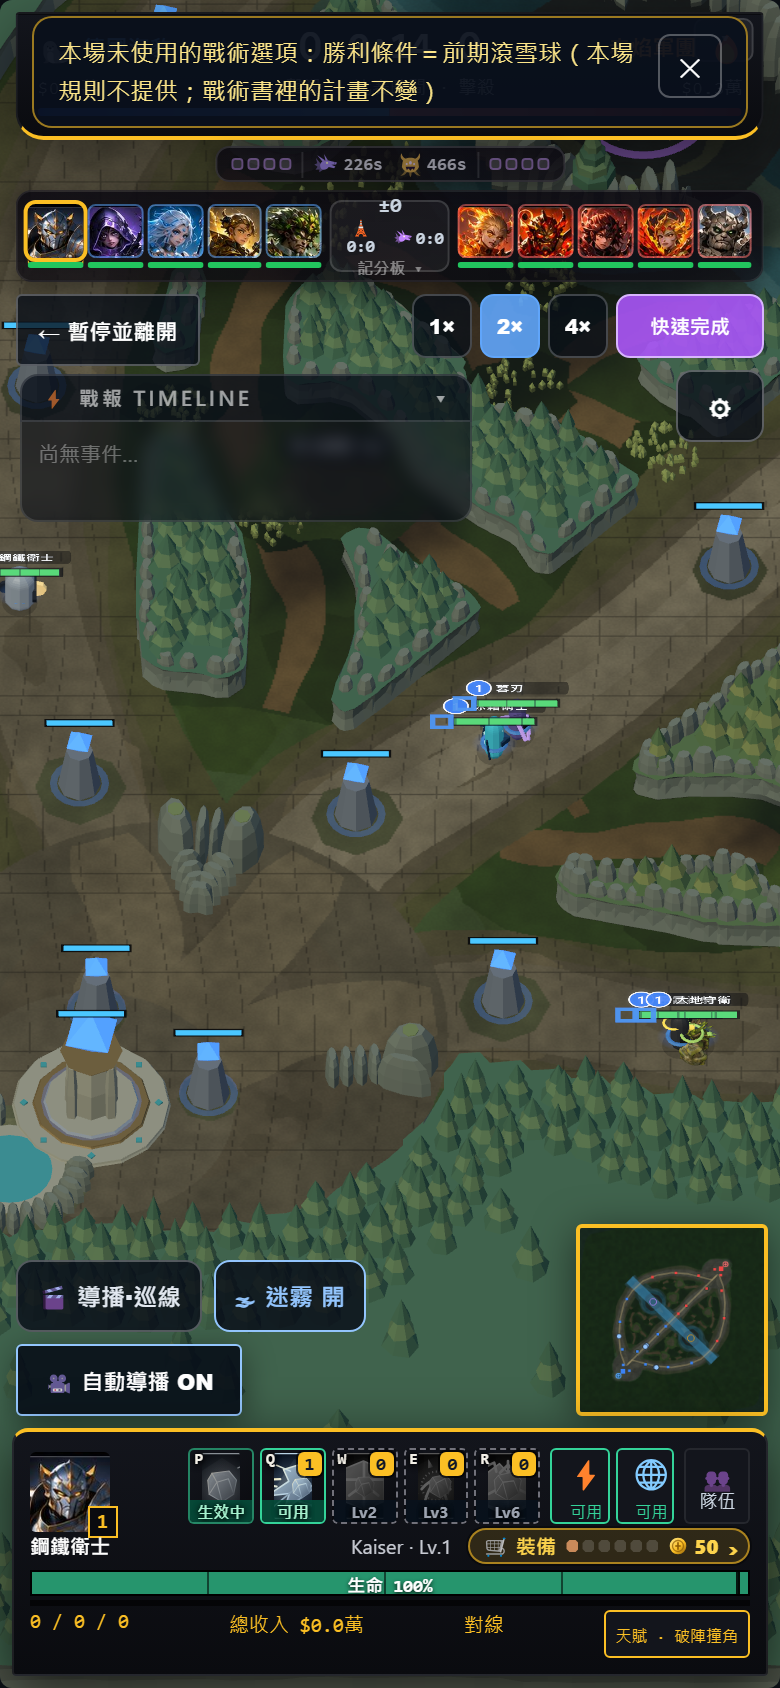
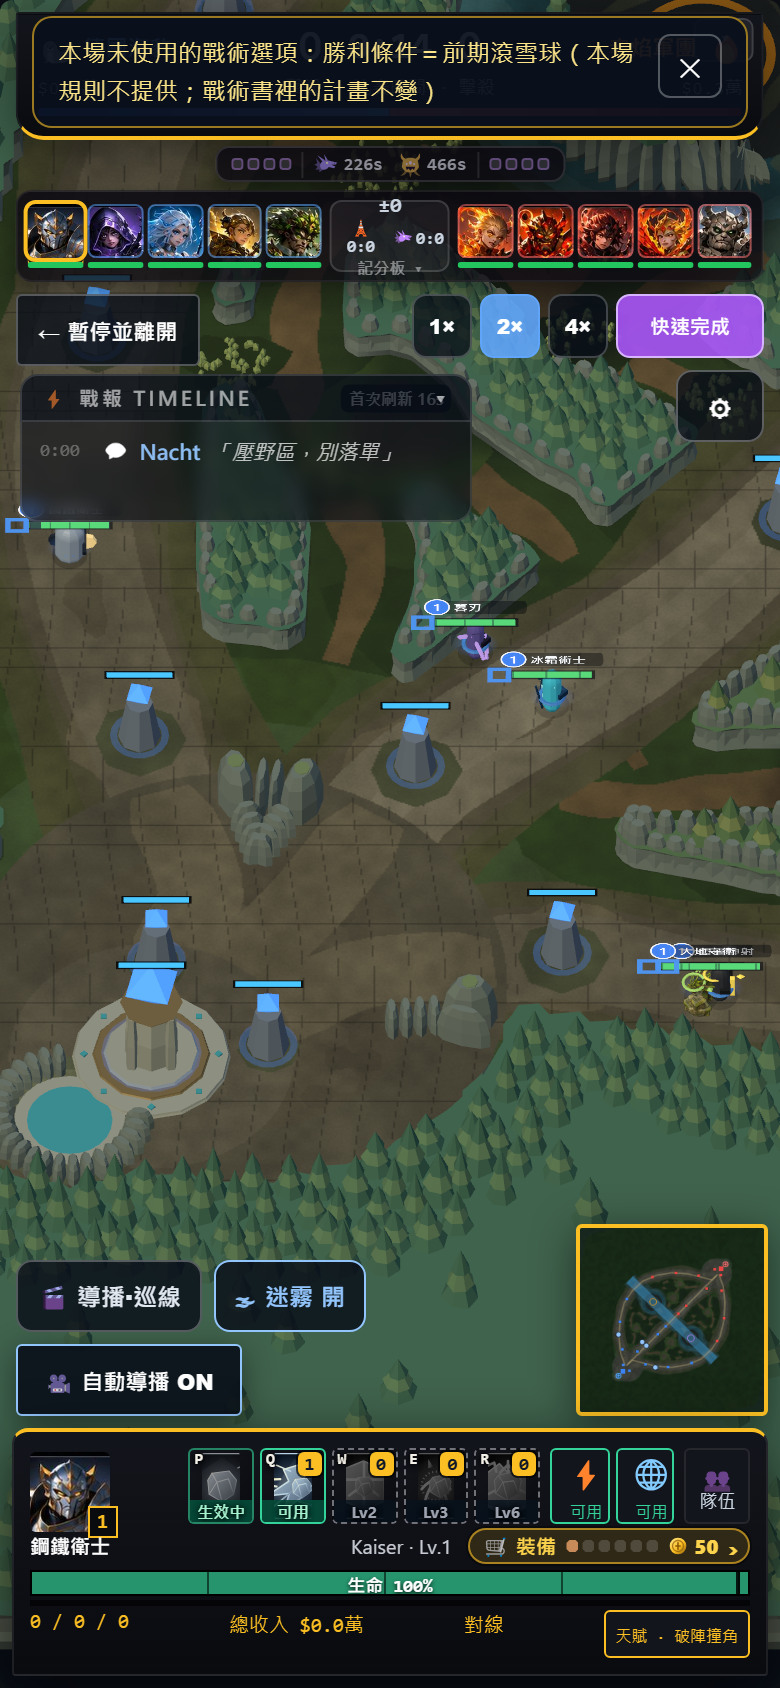
Phase 3a-B stage 1: docs and browser evidence for Owner 2026-11-01 review: P1-P7 closed, not ready for the final freeze (3 Owner decisions and 8 pre-freeze dev items remain)

diff --git a/review/tactic-book-3a/3a-B_第一階段_最小實作.md b/review/tactic-book-3a/3a-B_第一階段_最小實作.md
@@ -4,7 +4,8 @@
 - 分支：`feature/moba-phase3a-stage1`（本機，從 `feature/moba-phase3a` 的登記 commit `f3986c44` 分出；未 push／deploy／整合 main，未碰 CS）
 - 依據：Owner 2026-10-30 第三次裁定（六項決策；下一步＝第一階段發布規格的事前登記、獨立審查、最小實作與快速回歸）
 - 事前登記：`tools/fixtures/stage1_release_registration_3aB.json`（`f3986c44`）
-- 新 gate：`tools/check_stage1_split_3aB.mjs`（S1–S16，44 條）
+- 新 gate：`tools/check_stage1_split_3aB.mjs`（2026-11-02 共 62 條）、`tools/browser_check_stage1_flows_3aB.mjs`（42 條）
+- Owner 2026-11-01 Review 之後的工作與目前狀態：**§6、§8**
 
 ## 0. Owner 裁定與本輪對應
 
@@ -35,7 +36,7 @@
 - 規則集新增可選層 `templateBalance`：只有 `career.v21`、`balanceTool.v21` 帶 `"v21.b1"`；三份 v20 規則集與 `challenge.v21` **逐位元不變**（S1）。
 - 選擇引擎每個實例綁一張修正表：自己的值、提供清單、勝利條件展開、合併、確認頁設定、指標都從修正後的模板開始（審查 M1；S11 實測 494 格「畫面＝引擎」）。
 - 計畫合法性改成**聯集**：在出貨版或任一張修正表下合法就合法，與規則集無關 ⇒ 存好的計畫、binding、planHash 都不受影響，旗標來回切換時計畫不會失效（S4b：m7 前期強邊上路在出貨版是空轉、v21.b1 下有效，兩個方向都解析得出來）。
-- 量測排除表的查表多了 `templateBalance` 條件；現有每一列都不帶它 ⇒ 兩種設定下照舊生效（保守撤下，凍結前重新判定，S13）。
+- 量測排除表的查表多了 `templateBalance` 條件。當時每一列都不帶它（保守撤下）；2026-11-02 依 P6 結果套用，見 §8.3。
 - 結果：v21 下 m3／m7／m8 解析出的旋鈕＝篩選臂 M3_C／M7_M／M8_C（S4a）；v20 下＝出貨模板。
 
 ### 2.2 Live 與 Challenge 分開控制（Owner 第 5 點）
@@ -108,30 +109,151 @@
 
 ## 5. 仍未驗證的項目
 
-- 瀏覽器沒有直接看到：v2 計畫在旗標關閉時的「替換」那一行（390px）、讀取畫面與對戰 HUD 上的 m7 v21 文案（node gate S8／S12／S15 有驗）、旗標關閉時經 AppShell 進到 v20 戰術畫面的完整流程（S9 以逐字副本＋解析函式驗）。
 - 15–18 小時正式驗證：依 Owner 指示未啟動。
+- 真實 build 開旗標、正式站：未做。本輪瀏覽器 gate 都在 dev server 上，用攔截換掉旗標那一行。
+- 與目前 origin/main（含 CS Major v1.0）的合併驗證：未做。
+- 上一版這裡列的三項瀏覽器缺口（v2 替換那一行、讀取畫面與 HUD 的 m7 文案、旗標關閉時的流程）：2026-11-01 已由 `browser_check_stage1_flows_3aB` 走真正的 AppShell 流程驗過，見 §8.2。
 
-## 6. 是否具備一次語意凍結與正式重驗的條件
+## 6. 是否具備最終凍結條件（2026-11-02）
 
-**結論：實作、快速回歸與兩次實作審查都完成；凍結前只剩 Owner 決策與兩項開發期工作。**
+**結論：還不具備。** Owner 的 P1–P5 決策已落實，P6、P7 已完成；凍結前還有 3 項 Owner 決策與 8 項開發工作。
 
 | # | 凍結前提 | 狀態 |
 |---|---|---|
-| P1 | m3、m8 的 v21 文案（m3 缺點「撤退門檻極低」在 risk 0.5 下不成立、風險標示；m8 風險標示） | **待 Owner**（硬前提） |
-| P2 | m7 的 detail 沿用描述；career.v21 下賽果／重播顯示 v21 名稱 | **待 Owner 確認** |
-| P3 | 總開關取代 2026-10-25 決策 4（career.v20 下不再使用戰術書 binding） | **待 Owner 確認** |
-| P4 | career.v20 下 std／v2 計畫的處理（std＝標準運營、v2＝標準運營＋替換提示） | **待 Owner 確認** |
-| P5 | 賽後「戰術執行」仍用 v20 的證據目標（例：m7 推塔波次 6）而名稱是 v21 的——v21 要不要有自己的證據目標 | **待 Owner**（第二次審查提出） |
-| P6 | m3／m7／m8 現有量測排除列在 v21.b1 下重新判定（新 seeds、事前登記的開發期量測） | 未做 |
-| P7 | 第一階段正式驗收規格（G-A8 確認先跑；STOP 即停止發布並回報）另行事前登記＋獨立審查 | 草案在登記檔 `formalAcceptance` |
-| P8 | v21a／career 黃金重錄 | 依規定凍結後、Owner 同意才做 |
+| P1 | m3、m8 文案與風險標示 | 完成（Owner 2026-11-01 決策 1） |
+| P2 | m7 detail；賽果、重播用 v21 名稱 | 完成（決策 2） |
+| P3 | 總開關 | 完成（決策 3） |
+| P4 | v20 回退：std＝標準運營、v2＝標準運營＋替換提示；戰術書存檔不刪 | 完成（決策 3），瀏覽器 A 段驗過 |
+| P5 | 賽後面板不拿 v20 目標替 v21 評分 | 完成（決策 4）：只顯示未評分資訊 |
+| P6 | m3／m7／m8 排除列重新判定 | 完成，已套用（§8.3）；凍結後還要過正式驗收 step 4b |
+| P7 | 第一階段正式驗收規格 | 已登記，兩輪審查皆 APPROVE WITH CHANGES 且全部採納；**只核准規格，裡面的工具條件還沒做完** |
+| P8 | v21a／career 黃金重錄 | 依規定凍結後、逐案審查、保留舊 fixture；未做 |
 
-- 凍結時：重新登記 v21 候選指紋 → 真實性表整輪重測（約 70 分）→ 黃金重錄（Owner 同意）→ 一次性正式重驗（約 15–18 小時，G-A8 確認先跑）。
-- 預期風險不變：確認性 G-A8 至少一個模板判 STOP 約 36–57%；若 STOP 就停止發布並回報（Owner 第 6 點）。
+**待 Owner 決策（3 項，都登記在 `stage1_formal_acceptance_registration_3aB.json` 的 `ownerDecisionsBeforeFreeze`）**
+
+1. 修正表模板＋選擇有沒有勝率測試。G-A8 只測不帶選擇的模板，E1／E2 也不是為這種組合設計的，這個組合可能永遠沒有勝率測試。
+2. m3 團戰姿態整個維度撤下。要確認，或另外登記宣稱再量。
+3. 修正表以外、帶選擇的模板，在 v21 下賽後面板仍用 v20 目標評分。這是既有範圍問題，本輪沒有擴大處理。
+
+**凍結前還沒做的開發工作（`runnablePreconditions`）**
+
+1. G-A8 確認登記定稿（現在是草稿），量測工具接受 `--reg`。
+2. career 側偏確認登記定稿，工具接受 `--reg`。
+3. E1／E2 工具接受 `--reg`，補上確認登記（現在結果檔已存在，工具會拒跑）。
+4. 真實性表量測計畫要用該列規則集的修正表算（現在用出貨版引擎）。
+5. `check_tactic_truth_3a` 的 `exKey` 納入 templateBalance，並認得 P6 決定的列。
+6. P6 工具擴充為 step 4b（紅藍、保留區段 65101–65500）並有自己的登記。
+7. 旗標回滾演練 gate。
+8. verify 全套基準（在 origin/main 分支點上跑並存檔）。
+
+凍結時才做：重新登記 v21 候選指紋。
+
+- 上面第 4、5 項會改到凍結要涵蓋的工具，所以必須先於凍結。
+- 預期風險不變：確認性 G-A8 至少一個模板判 STOP 約 36–57%；STOP 就停止發布並回報（Owner 第 6 點）。
 
 ## 7. 本輪 commit（本機分支 `feature/moba-phase3a-stage1`）
 
 - `f3986c44` 第一階段事前登記（兩輪審查）
 - `424d93ad` 實作審查結論與第二輪替代斷言（先於改 gate）
 - `9a98e36e` 實作與第一批替代斷言（WIP）
-- 本文件與最終修正的 commit（見 05）
+- `48734137` 第二次審查修正、split gate、第一階段文件
+- `de8e5da7` 登記 Owner 2026-11-01 決策與預測（先於改 `src/`）
+- `d10603fa` 決策 1–4、瀏覽器流程 gate、P6／P7 登記
+- `ec05757a` P6 工具修正（第一次開跑作廢）
+- `4371147b` P6 第一階段結果（commit 訊息寫 10 項通過，正確是 11 項，見 §8.4）
+- `791edef4` 先登記排除列的套用方式與預測
+- `a3e3fa73` P6 第二階段結果
+- 排除列套用、複審修正、本文件：見 05 最新一節
+
+## 8. Owner 2026-11-01 Review 之後（P1–P7）
+
+### 8.1 Owner 決策如何落實
+
+| 決策 | 落實 |
+|---|---|
+| 1. m3、m8 風險標示改「中」，刪不符或缺證據的文案 | m3 優勢「輔助/坦克先手開團」、缺點「吃溝通與先手品質」；m8 優勢「前期穩健防守」、缺點改為無 |
+| 2. m7 detail 沿用描述；賽果、重播用 v21 名稱 | 已驗，瀏覽器 B 段 |
+| 3. 總開關與 v20 回退 | 已驗，瀏覽器 A、C 段；戰術書存檔不刪 |
+| 4. 賽後面板不拿 v20 目標替 v21 評分 | `evidenceGoals: "unscored"` ⇒ 只列本場計數；專精的戰術意圖也不計（這條是實作後才發現要一起處理，見 §8.4） |
+| 5. P6、P7 | §8.3；§6 |
+| 6. P8 | 未執行 |
+
+### 8.2 三項瀏覽器驗收
+
+`browser_check_stage1_flows_3aB` 42/42（真正的 AppShell 流程，桌機＋390px）：
+
+- **C 旗標關**：v20 戰術畫面、讀取畫面、HUD、有評分的賽後面板。
+- **B 旗標開**：m3／m8／m7 文案、m3 不顯示團戰姿態且有推塔高、讀取畫面、HUD、未評分面板、390px 沒有溢出、重播名稱。
+- **A 回退**：v2 計畫確認後關旗標重載、恢復比賽 ⇒ 讀取畫面與 HUD 都是標準運營、有替換提示、binding 保留。
+- **E**：沒有頁面錯誤。
+
+**這支 gate 抓到一個所有 Node gate 都看不到的白畫面**：`liveDisplayTactic` 宣告在 `tactic` 狀態之前（TDZ），已修。
+
+### 8.3 P6：排除列重新判定（開發期量測，不是正式驗收）
+
+- 第一階段：藍方，seeds 65001–65100，1,900 場，0 錯誤。第二階段：邊際項紅藍，seeds 65501–65900，3,200 場，0 錯誤。結果檔 `tools/fixtures/exclusion_v21b1_result_3aB.json`、`exclusion_v21b1_stage2_result_3aB.json`。
+- 規則沿用 Owner 2026-10-13 裁示：第一階段 z ≥ 3 通過、2 ≤ z < 3 邊際；邊際項用新 seeds 紅藍複驗，兩側都要 z ≥ 3 且相對效果 ≥ 5%。
+
+| 判定 | 項目 | 數字 | v21.b1 下 |
+|---|---|---|---|
+| 通過（11） | m3 推塔高 | z 3.67 | 提供（**新開放**） |
+| | m7 中路 split、團戰保守、團戰積極 | z −3.17、−5.48、4.16 | 提供 |
+| | m7 前期、中期強邊上中下（6 項） | z 5.48–13.87 | 提供 |
+| | m8 團戰積極 | z 7.08 | 提供 |
+| 邊際→確認（2） | m8 團戰保守 | 藍 −7.18、紅 −9.45 | 提供 |
+| | m8 前期集結 | 藍 4.63、紅 4.40 | 提供 |
+| 邊際→未站住（1） | m8 中期集結 | 藍 2.19、紅 3.56 | 不提供 |
+| 無效果（2） | m8 後期集結、m8 中期巴龍優先 | z 0.87、−0.38 | 不提供 |
+| 沒有宣稱（3） | m3 團戰姿態 3 個選項 | 沒有事前登記的指標 | 不提供（**撤下**） |
+
+**套用後的實際差異**
+
+- 玩家看得到的只有 m3 兩處：團戰姿態 3 個選項撤下（維度不再顯示）、推塔高開放。m7、m8 的選項不變。
+- 勝利條件展開：**沒有任何模板改變**（v21.b1 下 84 格前後相同，S13c2）。
+- 出貨版：1,827 格提供清單與勝利條件展開前後相同（S13c，雜湊 `4406efb8afa3a585`）。
+- 存檔裡帶已撤選項的 m3 計畫：仍可解析；戰術書載入時拿掉；恢復比賽時標成沿用開局設定（S13e）。
+
+**這批數字的限度**：這是開發期的確認，不取代凍結後的 step 4b；不是勝率結論，也不解除任何 STOP。
+
+### 8.4 與事前登記不一致、事後才發現的項目（照實記錄）
+
+完整紀錄在 `stage1_release_registration_3aB.json` 的 `honestLedgerOfEarlierDifferences`、`predictionOutcome`、`exclusionApplication.outcome`。
+
+| 項目 | 怎麼發現 | 處理 |
+|---|---|---|
+| 白畫面（TDZ） | 瀏覽器 gate | 已修 |
+| 專精戰術意圖會寫進未評分的場次 | 實作時才發現，不是原本的預測 | 已修，S18 釘住 |
+| P6 第一次開跑全部作廢：`--worker` 旗標與 balance runner 撞名，每筆紀錄都掛到錯的任務 | `--report` 在算任何判定前就拒絕 | 資料全丟，改名、加即時比對，同 seeds 重跑 |
+| 我把 P6 門檻寫成 z ≥ 3＋5%，與 Owner 2026-10-13 裁示衝突 | 第 2 輪審查 | 改回原規則＋第二階段複驗 |
+| 先前的帳把 V11 等項目記錯成「事前／事後」 | 第 1、2 輪審查 | 帳本已修正 |
+| `check_club_mastery_v1` 264/265，預測時當成綠燈 | 回歸 | origin/main 上就紅，未改 gate，列入已知債 |
+| P6 工具自我檢查 S8 假紅（比對到自己的原始碼），**P6 開跑前沒跑過** | 2026-11-02 重跑 | 已修 10/10。量測不受影響：旗標名稱與每場紀錄的即時比對都是獨立的 |
+| `check_simulation_version_gate` 82/83 沒列在套用排除列的預測裡 | 回歸 | 第一份登記的一般預測涵蓋（凍結時才重新登記）；但沒有在 `a3e3fa73` 上單獨跑過，「套用前就紅」是推論 |
+| 登記說要釘住勝利條件，S13c 只釘了出貨版 | 排除列複審 Major | 加 S13c2 |
+| `4371147b` 與我給 Owner 的進度都寫「10 項通過」 | 排除列複審 | 正確是 11 項；不改歷史 |
+
+### 8.5 回歸（排除列套用後實跑）
+
+| 類別 | 結果 |
+|---|---|
+| Build | ✓ built in 17.13s |
+| v20 黃金 `check_match_setup_3a` | 153/153 |
+| Challenge | 黃金 6/6、setup 65/65 |
+| 存檔 | b1b ✓、b1c 76/76、b1d ✓、tactic save 39/39 |
+| 分流 `check_stage1_split_3aB` | 62/62 |
+| Phase 3a | registry 35、replication 53、indicators 59、evidence scope 7、AI coach 11、book UI 9、book view 25、plan 219、resolver 139、ruleset 51、win condition 11、career tactics 6、phase choices 24、phase bucket 23、seed plan 40、directive 61、director 97、setup contract 85、balance runner 122、live setup 119、assembler 227、skeleton 171、laneframe 55，全綠 |
+| verify | tactic24、runtime29 PASS（2/2） |
+| regress／regress2 | 15/15、8/8（這兩支不呼叫 configureMatch，不算戰術層證據） |
+| 瀏覽器 | tactic_book_v21 30/30、tactic_book_3a 31/31、battle_notices 11/11、stage1 flows 42/42 |
+
+**紅燈（全部已知）**：
+
+| Gate | 結果 | 性質 |
+|---|---|---|
+| `check_match_golden_v21a` | 97/137 | 預期，同一批 40 案，未重錄 |
+| `check_career_golden_v21` | 4/5 | 預期，setupHash，未重錄 |
+| `check_tactic_truth_3a` | 33/34 | 預期，只有 T2 過期 |
+| `check_simulation_version_gate` | 82/83 | 預期，指紋凍結時才重新登記 |
+| `check_club_mastery_v1` | 264/265 | 既有債，origin/main 也紅 |
+
+排除列的獨立複審：APPROVE WITH CHANGES（1 Major／8 minor）。已修 Major 與 minor 2、4、5、8，minor 1、7 記錄在案；minor 3、6 未改：3 是既有列的 n／z 沒有 gate 釘住；6 是內部的 `withheld.reason` 寫死成 no_measured_effect，玩家看不到，改了會動到出貨版的格子。

diff --git a/docs/handoff/04_Roadmap.md b/docs/handoff/04_Roadmap.md
@@ -2895,7 +2895,7 @@ NEXT_SPRINT = NOT_STARTED
 | 階段 | 內容 | 模擬版本 |
 |---|---|---|
 | **3a-A 地基（對等）** | 明確 ruleset、MatchSetup、唯一組裝器（Live／Challenge／balance runner）、TacticPlan.v2、經典＋v2 模板、Resolver（與 v20 投影等價）、Capability Registry＋真實性 gate、戰術書 UI（快速／標準）、指標、存檔 | v21 未發布候選（Live 與 v20 逐位元對等；不獨立發布，v20 指紋不動） |
-| **3a-B 新行為** | AI 教練 v1、`challenge.v21`（技能 ON、佈局依 seed、裝備維持 OFF） | v21（2026-10-25：P0＋P1 完成於本機 `feature/moba-phase3a`；旗標未啟用；P2 發布量測待 Owner 核准，順序見 08 同日一節。2026-10-27：P2 可獨立執行項目完成，**兩項 STOP 阻擋發布**——G-A8 主導戰術（v20 同 seeds 同樣存在，其中兩個 v2 模板為反事實；修正方案待 Owner）、Challenge 側偏（雙向配對研究已登記，開跑待 Owner 確認）；見 `review/tactic-book-3a/3a-B_P2_執行紀錄.md`。2026-10-28：雙向研究 SIDE_CONFIRMED、G-A8 旋鈕診斷 DIAGNOSED，兩項 STOP 仍在；修正偏向方案 C（模板，仍屬語意變更），待 Owner。2026-10-29：修正規劃完成（`review/tactic-book-3a/3a-B_修正規劃.md`）——G-A8 篩選只選出 m3（m7 仍 STOP，需第二輪）、Challenge 階梯 ATTRIBUTED／陣容翻轉來自 skills 與 growth；版本化修正只在 v21 規則集；兩項 STOP 仍在，9 項待 Owner。2026-10-29／30：修正規劃第二輪（`review/tactic-book-3a/3a-B_修正規劃_第二輪.md`）——m3／m7／m8 都有 v21 候選（M3_C、M7_M、M8_C），C2 顯示真鏡像中技能層藍方優勢 +6.9pp（校準消不掉），C1 基線完成；未凍結，D1–D8 待 Owner。2026-10-30：修正規劃第三輪（`review/tactic-book-3a/3a-B_修正規劃_第三輪.md`）——D5 結算順序診斷 INCONCLUSIVE（`players` 順序成分 +0.9，不支持引擎順序修正）、D8 three_lane_pressure／m1 只有重新設計層級的候選；兩項 STOP 仍在；未凍結，D1–D4、D9–D12 待 Owner。2026-10-30 第四輪（`review/tactic-book-3a/3a-B_修正規劃_第四輪_發布拆分.md`）——mid_jungle_sync 原版未重現、停止篩選；分階段發布（戰術書／AI 教練 v21 先、Challenge 留 v20）技術上可行，但需新 Challenge 旗標、總開關與獨立驗收規格（約 15–18 小時），確認性 G-A8 仍有約四成到接近六成的 STOP 風險；未凍結，待 Owner。2026-11-01 第一階段最小實作完成於本機分支 feature/moba-phase3a-stage1（`review/tactic-book-3a/3a-B_第一階段_最小實作.md`）：修正表 v21.b1、Challenge 專用旗標、總開關、v21 文案；快速回歸與瀏覽器通過；未凍結、旗標未開，凍結前提待 Owner） |
+| **3a-B 新行為** | AI 教練 v1、`challenge.v21`（技能 ON、佈局依 seed、裝備維持 OFF） | v21（2026-10-25：P0＋P1 完成於本機 `feature/moba-phase3a`；旗標未啟用；P2 發布量測待 Owner 核准，順序見 08 同日一節。2026-10-27：P2 可獨立執行項目完成，**兩項 STOP 阻擋發布**——G-A8 主導戰術（v20 同 seeds 同樣存在，其中兩個 v2 模板為反事實；修正方案待 Owner）、Challenge 側偏（雙向配對研究已登記，開跑待 Owner 確認）；見 `review/tactic-book-3a/3a-B_P2_執行紀錄.md`。2026-10-28：雙向研究 SIDE_CONFIRMED、G-A8 旋鈕診斷 DIAGNOSED，兩項 STOP 仍在；修正偏向方案 C（模板，仍屬語意變更），待 Owner。2026-10-29：修正規劃完成（`review/tactic-book-3a/3a-B_修正規劃.md`）——G-A8 篩選只選出 m3（m7 仍 STOP，需第二輪）、Challenge 階梯 ATTRIBUTED／陣容翻轉來自 skills 與 growth；版本化修正只在 v21 規則集；兩項 STOP 仍在，9 項待 Owner。2026-10-29／30：修正規劃第二輪（`review/tactic-book-3a/3a-B_修正規劃_第二輪.md`）——m3／m7／m8 都有 v21 候選（M3_C、M7_M、M8_C），C2 顯示真鏡像中技能層藍方優勢 +6.9pp（校準消不掉），C1 基線完成；未凍結，D1–D8 待 Owner。2026-10-30：修正規劃第三輪（`review/tactic-book-3a/3a-B_修正規劃_第三輪.md`）——D5 結算順序診斷 INCONCLUSIVE（`players` 順序成分 +0.9，不支持引擎順序修正）、D8 three_lane_pressure／m1 只有重新設計層級的候選；兩項 STOP 仍在；未凍結，D1–D4、D9–D12 待 Owner。2026-10-30 第四輪（`review/tactic-book-3a/3a-B_修正規劃_第四輪_發布拆分.md`）——mid_jungle_sync 原版未重現、停止篩選；分階段發布（戰術書／AI 教練 v21 先、Challenge 留 v20）技術上可行，但需新 Challenge 旗標、總開關與獨立驗收規格（約 15–18 小時），確認性 G-A8 仍有約四成到接近六成的 STOP 風險；未凍結，待 Owner。2026-11-02 Owner 決策 1–4、瀏覽器驗收、P6、P7 完成，尚不具備最終凍結條件（見 08）。2026-11-01 第一階段最小實作完成於本機分支 feature/moba-phase3a-stage1（`review/tactic-book-3a/3a-B_第一階段_最小實作.md`）：修正表 v21.b1、Challenge 專用旗標、總開關、v21 文案；快速回歸與瀏覽器通過；未凍結、旗標未開，凍結前提待 Owner） |
 | **3b 深度** | Tactical Director、席位任務、主 Call、團戰指揮、包夾、資源交換、兵線、條件應變、配合度負擔、紅方素質注入、單機教練介入＋CommandLog、賽後計畫執行報告、專業模式 | v22 |
 | **3c 跨模式** | 非同步預約介入、Challenge 自訂計畫、同步線上協議規格（固定延遲＋公平操作時窗）、**賽季 AI 對 AI 戰術校準（必要交付）**、多路帶線 | v23＋SIMULATOR_VERSION 升版 |
 

diff --git a/docs/handoff/08_目前待辦與風險.md b/docs/handoff/08_目前待辦與風險.md
@@ -13781,3 +13781,11 @@ Owner 用的完整總結在 `review/tactic-book-3a/3a-A驗收總結.md`；細節
 - **總開關取代 2026-10-25 決策 4**：career.v20 下不再使用戰術書 binding（經典計畫 ⇒ 正式站經典戰術；std ⇒ 標準運營；v2 ⇒ 標準運營＋替換提示）——待 Owner 確認。
 - **凍結前提（待 Owner）**：m3／m8 v21 文案、m7 detail、v21 名稱進賽果、v20 下 std／v2 處理、賽後執行度目標。開發期：m3／m7／m8 排除列在 v21.b1 重新判定；第一階段正式驗收另行登記（G-A8 先跑，STOP 即停）。
 - **回退只能用旗標**（重新部署舊 bundle 會刪掉玩家的戰術書）。
+
+**2026-11-02 Phase 3a-B 第一階段：P1–P7 收尾（`review/tactic-book-3a/3a-B_第一階段_最小實作.md` §6、§8；本機分支 feature/moba-phase3a-stage1；未凍結、未啟用旗標）**
+- **兩項 STOP 仍在，門檻未放寬**。發布旗標全關。
+- **尚不具備最終凍結條件**。
+- **待 Owner**：① 修正表模板＋選擇有沒有勝率測試 ② m3 團戰姿態整個維度撤下 ③ 修正表以外、帶選擇的模板在 v21 下賽後仍用 v20 目標評分。
+- **凍結前開發工作**：G-A8／career 側偏／E1／E2 確認登記與 `--reg`；真實性表計畫改用修正表；`exKey` 納入 templateBalance；step 4b 工具；旗標回滾演練 gate；verify 全套基準。
+- **P6 的數字是開發期確認**，凍結後要過 step 4b，保留區段 65101–65500 不得先用。
+- **技術債**：`withheld.reason` 在 offeredDetail 寫死 no_measured_effect（內部欄位，玩家看不到）；既有排除列的 n／z 沒有 gate 釘住。
